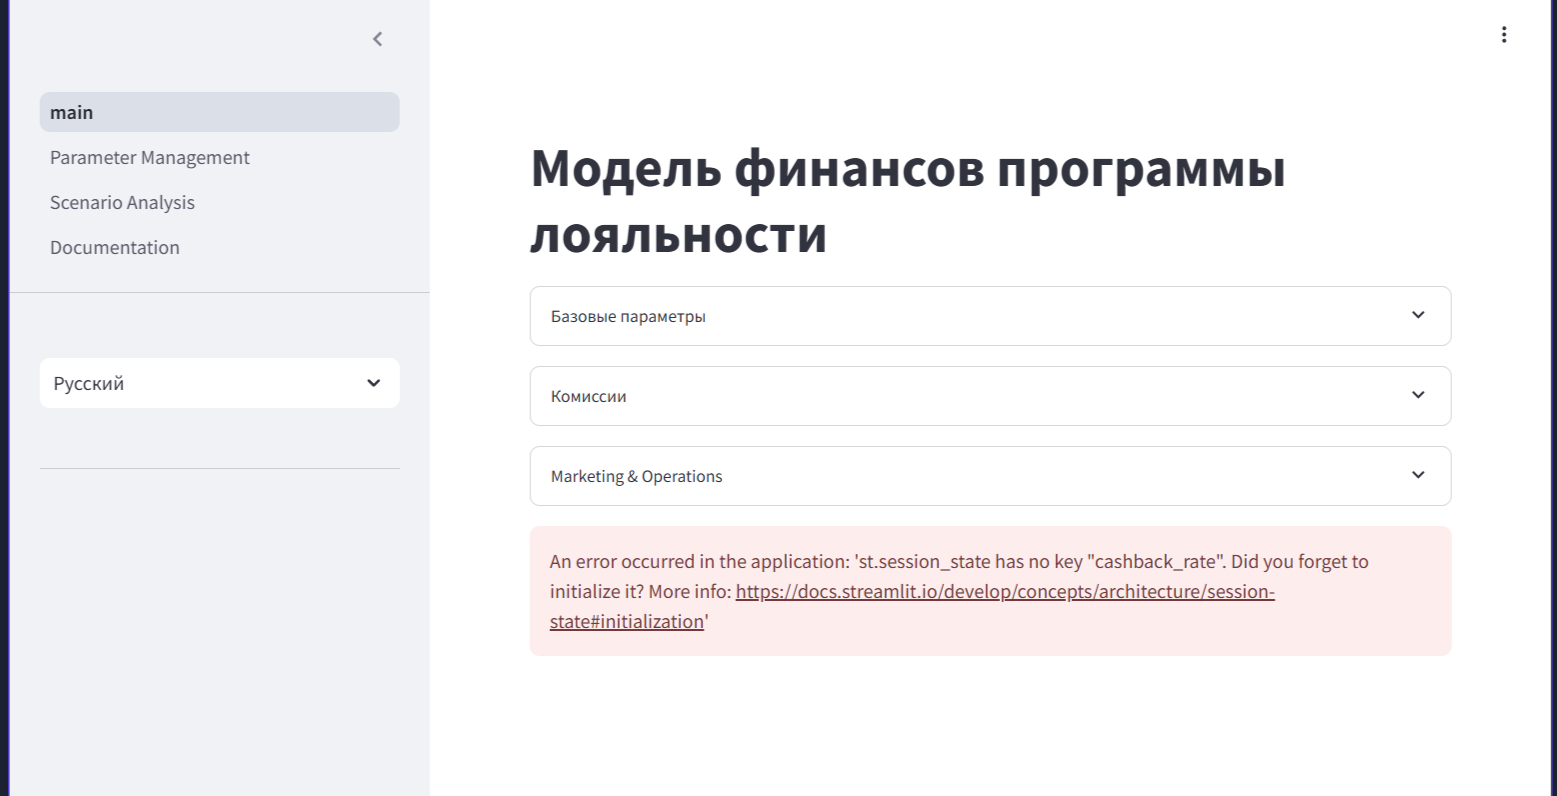
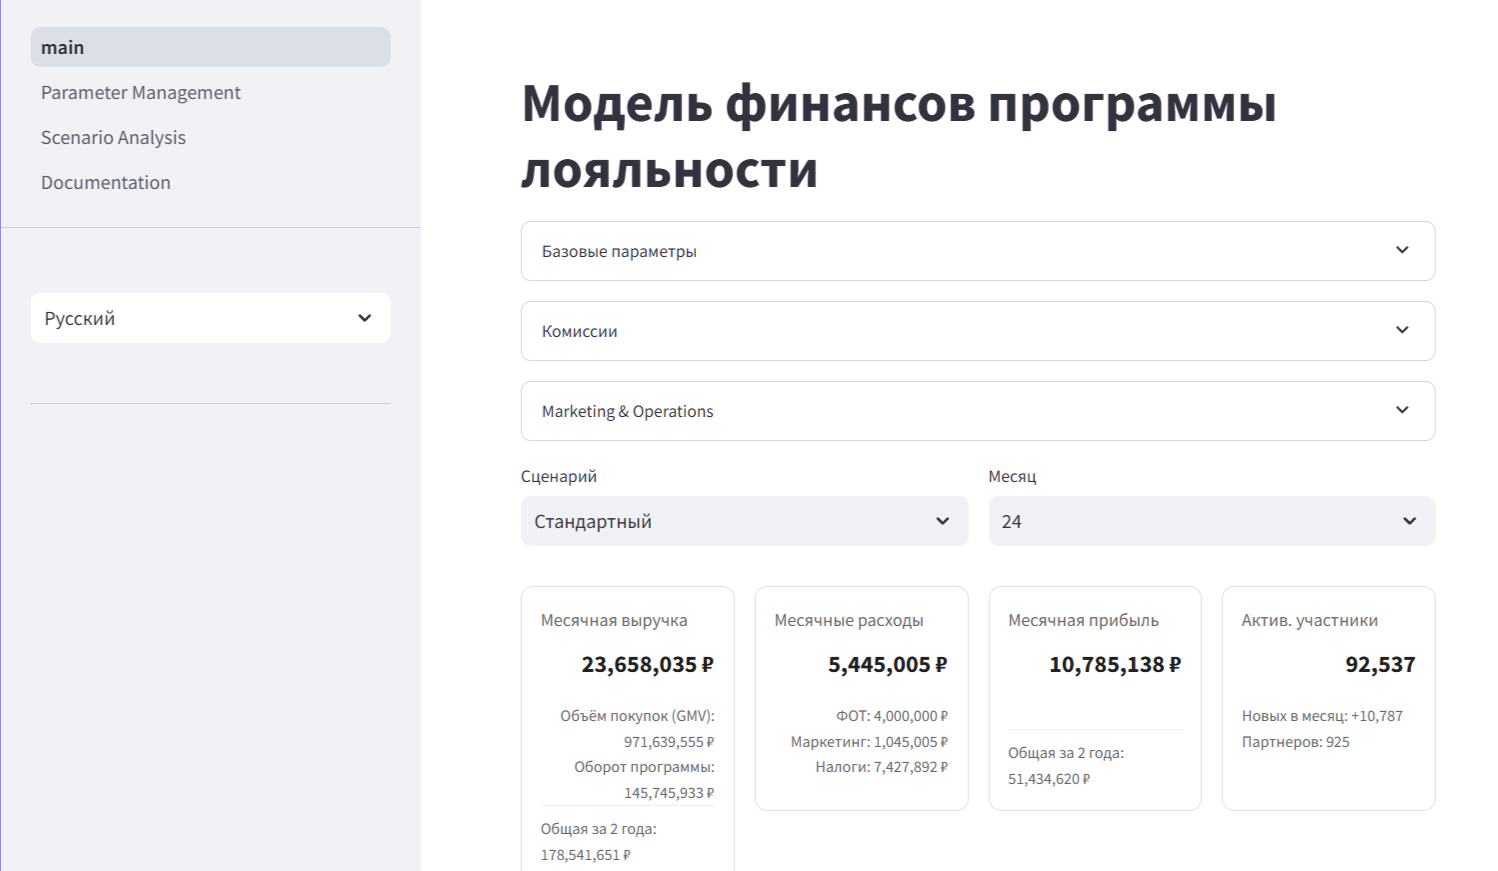
Agent query: Загружается ли теперь приложение без ошибок и показывает ли корректную прибыль для стандартного сценария сразу при запуске?
Add required parameters to presets and initialize session state with defaults to prevent KeyError.

Screenshot: https://storage.googleapis.com/screenshot-production-us-central1/f5e095a3-f525-4b15-8ae3-3ce0f434ca6e/f2c12102-eb73-46a4-bcbf-ae9d08b05dec.jpg

diff --git a/utils/presets.py b/utils/presets.py
@@ -9,13 +9,13 @@ PRESETS = {
         "growth_rate_y2": 0.08,  # Ниже стандартного
         "avg_check": 2500,
         "points_usage_rate": 0.60,
+        "cashback_rate": 0.15,  # Добавлен обязательный параметр
         "expired_points_rate": 0.03,  # Пессимистичный сценарий: меньше баллов сгорает
         "exchange_commission_rate": 0.02,
         "reward_commission_rate": 0.03,
         "burn_rate_fot_1": 3000000,
         "burn_rate_fot_2": 4000000,
         "base_infra_cost": 250000,
-        "monthly_marketing_budget": 150000,
         "marketing_efficiency": 100,
         "marketing_spend_rate": 0.15,
         "ad_revenue_per_user": 15,
@@ -28,14 +28,15 @@ PRESETS = {
         "growth_rate_y2": 0.10,  # Базовый темп роста
         "avg_check": 3000,
         "points_usage_rate": 0.70,
+        "cashback_rate": 0.15,  # Добавлен обязательный параметр
         "expired_points_rate": 0.05,  # Стандартный сценарий: 5% от неиспользованных баллов
         "exchange_commission_rate": 0.03,
         "reward_commission_rate": 0.05,
         "burn_rate_fot_1": 2500000,
         "burn_rate_fot_2": 3500000,
         "base_infra_cost": 200000,
-        "monthly_marketing_budget": 200000,
         "marketing_efficiency": 250,  # Значительно увеличена эффективность маркетинга
+        "marketing_spend_rate": 0.05,  # Добавлен обязательный параметр
         "ad_revenue_per_user": 20,
         "partnership_rate": 0.005
     },
@@ -46,14 +47,15 @@ PRESETS = {
         "growth_rate_y2": 0.12,  # Выше стандартного
         "avg_check": 3500,
         "points_usage_rate": 0.80,
+        "cashback_rate": 0.15,  # Добавлен обязательный параметр
         "expired_points_rate": 0.07,  # Оптимистичный сценарий: больше баллов сгорает
         "exchange_commission_rate": 0.04,
         "reward_commission_rate": 0.06,
         "burn_rate_fot_1": 2000000,
         "burn_rate_fot_2": 3000000,
         "base_infra_cost": 180000,
-        "monthly_marketing_budget": 250000,
         "marketing_efficiency": 300,  # Значительно увеличена эффективность маркетинга
+        "marketing_spend_rate": 0.05,  # Добавлен обязательный параметр
         "ad_revenue_per_user": 25,
         "partnership_rate": 0.007
     }

diff --git a/main.py b/main.py
@@ -10,21 +10,35 @@ from models.financial_model import FinancialModel
 from utils.presets import PRESETS
 from utils.translations import get_translation
 
-# Initialize language first
+# Initialize session state with basic defaults
 if 'language' not in st.session_state:
     st.session_state['language'] = 'ru'
 
-# Set and load the current scenario
 if 'current_scenario' not in st.session_state:
     st.session_state['current_scenario'] = 'standard'
 
+# Load preset values first
 scenario = st.session_state['current_scenario']
 if scenario in PRESETS:
-    # Load preset values
-    for key, value in PRESETS[scenario].items():
+    preset_data = PRESETS[scenario].copy()
+    # Ensure all required parameters are present in the preset
+    required_params = [
+        'initial_users', 'active_conversion', 'growth_rate_y1', 'growth_rate_y2',
+        'avg_check', 'points_usage_rate', 'cashback_rate', 'exchange_commission_rate',
+        'reward_commission_rate', 'base_infra_cost', 'marketing_spend_rate',
+        'marketing_efficiency'
+    ]
+    
+    # Check if any required parameters are missing in the preset
+    missing_params = [param for param in required_params if param not in preset_data]
+    if missing_params:
+        st.error(f"Missing required parameters in preset: {', '.join(missing_params)}")
+    
+    # Load all preset values into session state
+    for key, value in preset_data.items():
         st.session_state[key] = value
 
-# Initialize any missing values with defaults
+# Initialize any additional parameters that might be needed
 initialize_session_state()
 
 def format_money(amount):
